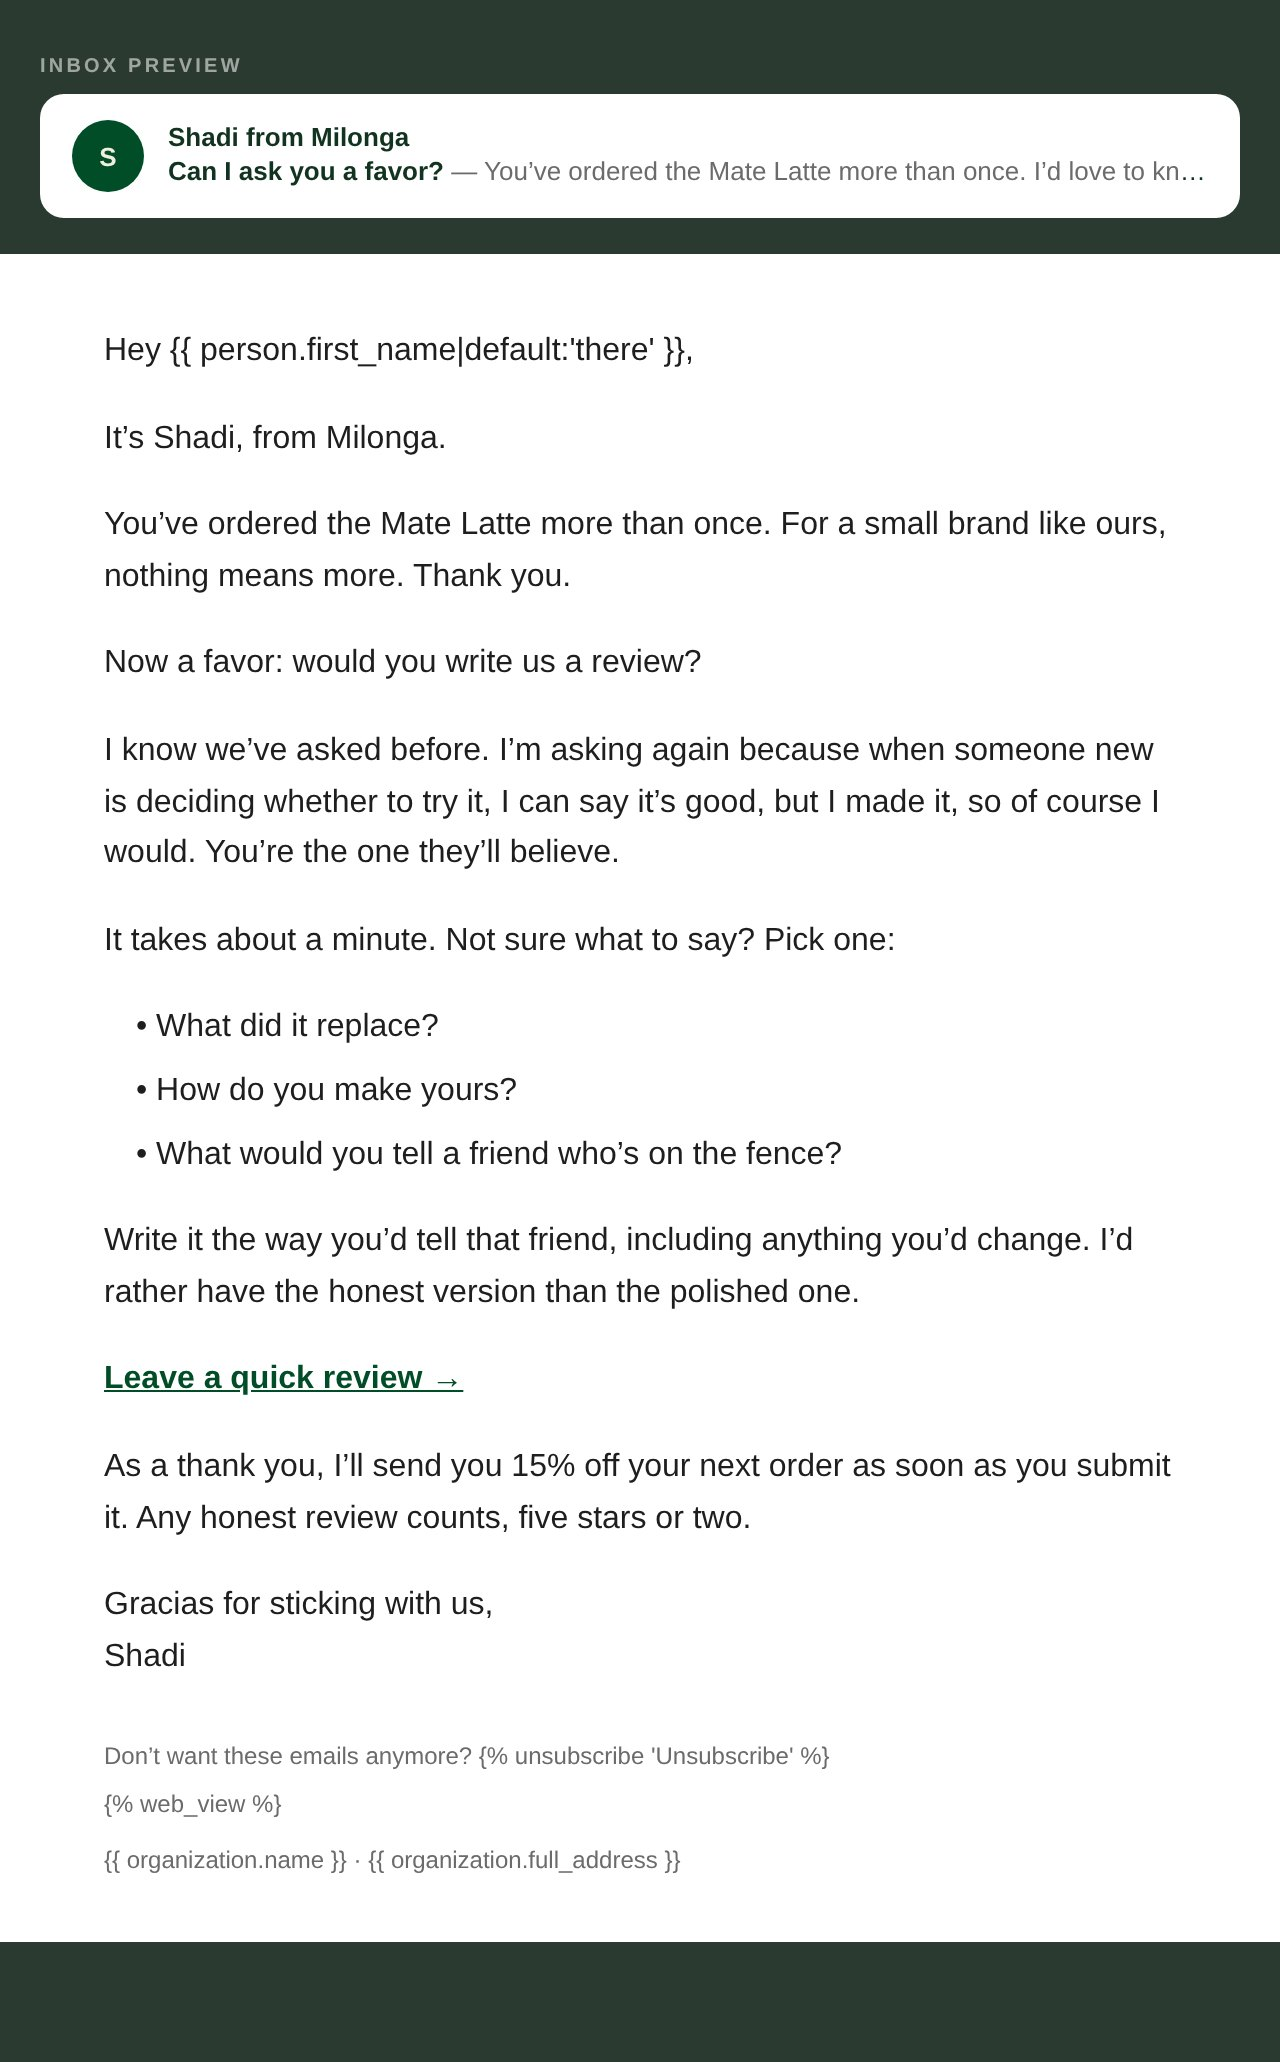
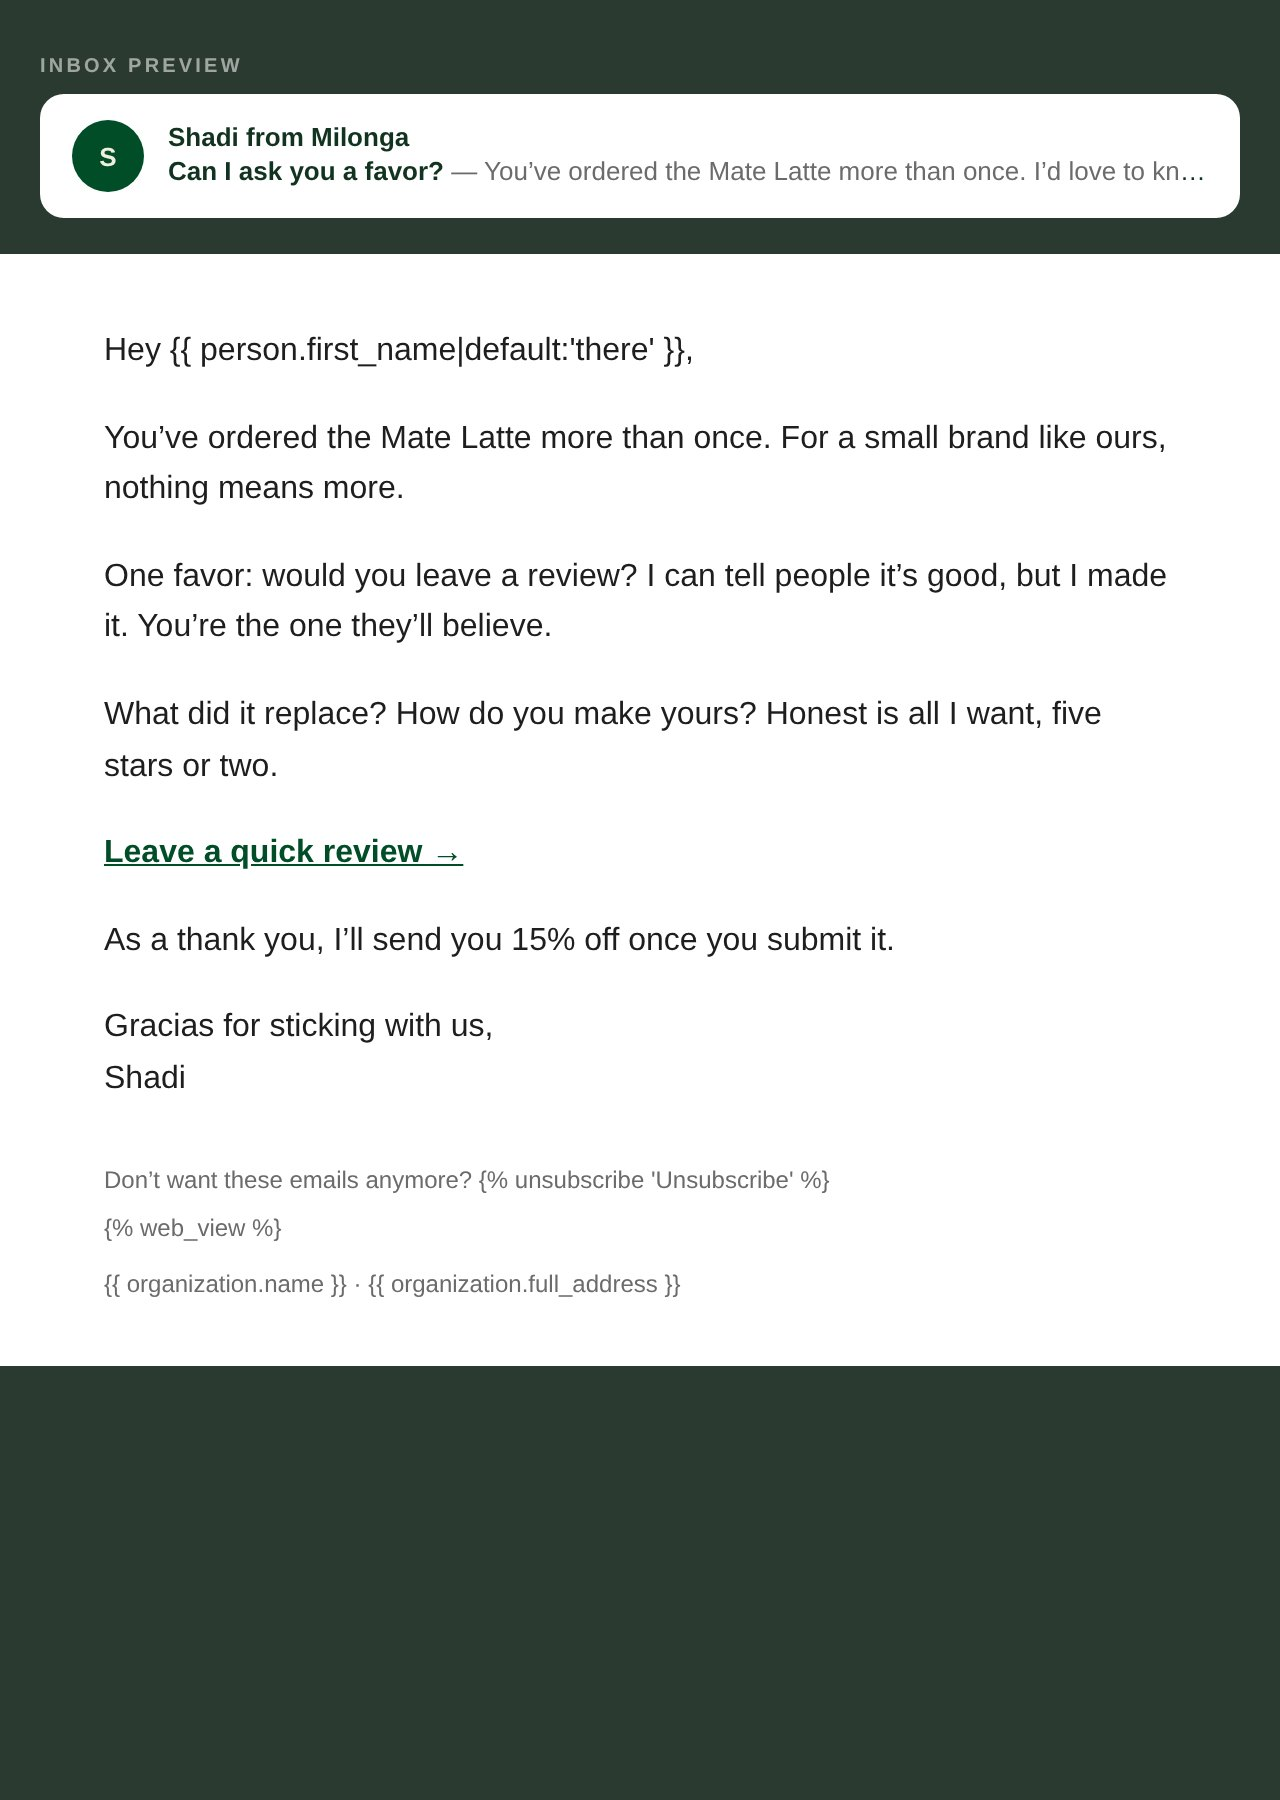
Review request, repeat buyers E1: shorter letter
Cut from 161 to 82 words: no intro line, two prompts inline, the time
cost carried by the link label. Link, reward wording and footer unchanged.

Claude-Session: https://claude.ai/code/session_0165XRX6qdjN6jQ924HLbrcX

Changed region(s): [[0.0, 0.3111, 1.0, 0.9644], [0.0, 0.0311, 1.0, 0.28], [0.625, 0.2178, 0.9062, 0.28]]

diff --git a/email-ds/exports/klaviyo/review-repeat-e1/review-repeat-e1.html b/email-ds/exports/klaviyo/review-repeat-e1/review-repeat-e1.html
@@ -24,17 +24,11 @@
 <tr><td class="pad" align="left" style="padding:36px 32px 28px;font-family:Helvetica, Arial, sans-serif;font-size:16px;line-height:1.6;color:#1E1E1E;">
 
 <p style="margin:0 0 18px;">Hey {{ person.first_name|default:'there' }},</p>
-<p style="margin:0 0 18px;">It&rsquo;s Shadi, from Milonga.</p>
-<p style="margin:0 0 18px;">You&rsquo;ve ordered the Mate Latte more than once. For a small brand like ours, nothing means more. Thank you.</p>
-<p style="margin:0 0 18px;">Now a favor: would you write us a review?</p>
-<p style="margin:0 0 18px;">I know we&rsquo;ve asked before. I&rsquo;m asking again because when someone new is deciding whether to try it, I can say it&rsquo;s good, but I made it, so of course I would. You&rsquo;re the one they&rsquo;ll believe.</p>
-<p style="margin:0 0 18px;">It takes about a minute. Not sure what to say? Pick one:</p>
-<p style="margin:0 0 6px;padding-left:28px;text-indent:-12px;">&bull; What did it replace?</p>
-<p style="margin:0 0 6px;padding-left:28px;text-indent:-12px;">&bull; How do you make yours?</p>
-<p style="margin:0 0 18px;padding-left:28px;text-indent:-12px;">&bull; What would you tell a friend who&rsquo;s on the fence?</p>
-<p style="margin:0 0 18px;">Write it the way you&rsquo;d tell that friend, including anything you&rsquo;d change. I&rsquo;d rather have the honest version than the polished one.</p>
+<p style="margin:0 0 18px;">You&rsquo;ve ordered the Mate Latte more than once. For a small brand like ours, nothing means more.</p>
+<p style="margin:0 0 18px;">One favor: would you leave a review? I can tell people it&rsquo;s good, but I made it. You&rsquo;re the one they&rsquo;ll believe.</p>
+<p style="margin:0 0 18px;">What did it replace? How do you make yours? Honest is all I want, five stars or two.</p>
 <p style="margin:0 0 18px;"><a href="https://milonga.life/products/the-original-mate-latte?judgeme_review_source=shareable-link#judgeme_product_reviews" target="_blank" style="color:#004D27;font-weight:bold;text-decoration:underline;">Leave a quick review &rarr;</a></p>
-<p style="margin:0 0 18px;">As a thank you, I&rsquo;ll send you 15% off your next order as soon as you submit it. Any honest review counts, five stars or two.</p>
+<p style="margin:0 0 18px;">As a thank you, I&rsquo;ll send you 15% off once you submit it.</p>
 <p style="margin:0 0 0px;">Gracias for sticking with us,<br>Shadi</p>
 
 </td></tr>

diff --git a/email-ds/refine/review-repeat-e1.html b/email-ds/refine/review-repeat-e1.html
@@ -8,17 +8,11 @@
 <tr><td class="pad" align="left" style="padding:36px 32px 28px;font-family:Helvetica, Arial, sans-serif;font-size:16px;line-height:1.6;color:#1E1E1E;">
 
 <p style="margin:0 0 18px;">Hey {{ person.first_name|default:'there' }},</p>
-<p style="margin:0 0 18px;">It&rsquo;s Shadi, from Milonga.</p>
-<p style="margin:0 0 18px;">You&rsquo;ve ordered the Mate Latte more than once. For a small brand like ours, nothing means more. Thank you.</p>
-<p style="margin:0 0 18px;">Now a favor: would you write us a review?</p>
-<p style="margin:0 0 18px;">I know we&rsquo;ve asked before. I&rsquo;m asking again because when someone new is deciding whether to try it, I can say it&rsquo;s good, but I made it, so of course I would. You&rsquo;re the one they&rsquo;ll believe.</p>
-<p style="margin:0 0 18px;">It takes about a minute. Not sure what to say? Pick one:</p>
-<p style="margin:0 0 6px;padding-left:28px;text-indent:-12px;">&bull; What did it replace?</p>
-<p style="margin:0 0 6px;padding-left:28px;text-indent:-12px;">&bull; How do you make yours?</p>
-<p style="margin:0 0 18px;padding-left:28px;text-indent:-12px;">&bull; What would you tell a friend who&rsquo;s on the fence?</p>
-<p style="margin:0 0 18px;">Write it the way you&rsquo;d tell that friend, including anything you&rsquo;d change. I&rsquo;d rather have the honest version than the polished one.</p>
+<p style="margin:0 0 18px;">You&rsquo;ve ordered the Mate Latte more than once. For a small brand like ours, nothing means more.</p>
+<p style="margin:0 0 18px;">One favor: would you leave a review? I can tell people it&rsquo;s good, but I made it. You&rsquo;re the one they&rsquo;ll believe.</p>
+<p style="margin:0 0 18px;">What did it replace? How do you make yours? Honest is all I want, five stars or two.</p>
 <p style="margin:0 0 18px;"><a href="https://milonga.life/products/the-original-mate-latte?judgeme_review_source=shareable-link#judgeme_product_reviews" target="_blank" style="color:#004D27;font-weight:bold;text-decoration:underline;">Leave a quick review &rarr;</a></p>
-<p style="margin:0 0 18px;">As a thank you, I&rsquo;ll send you 15% off your next order as soon as you submit it. Any honest review counts, five stars or two.</p>
+<p style="margin:0 0 18px;">As a thank you, I&rsquo;ll send you 15% off once you submit it.</p>
 <p style="margin:0 0 0px;">Gracias for sticking with us,<br>Shadi</p>
 
 </td></tr>
